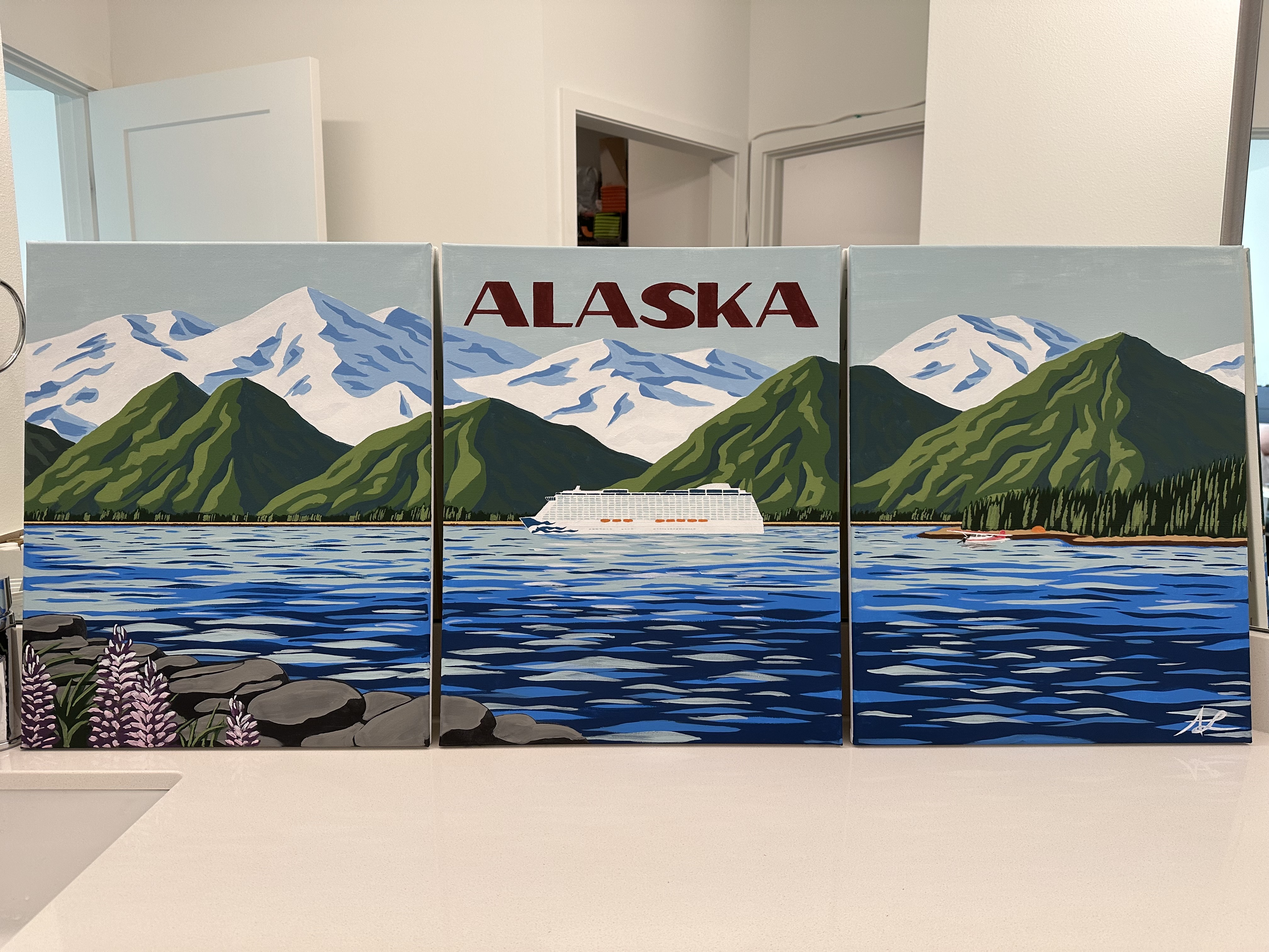
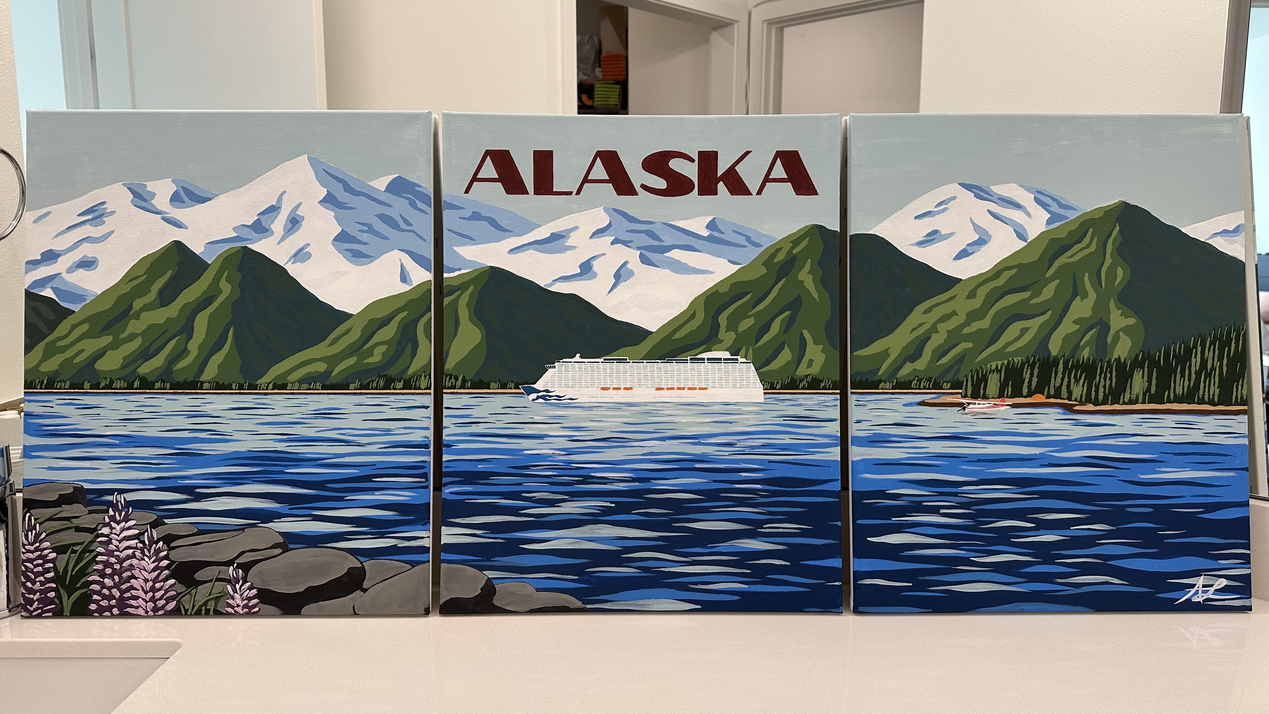
Added pictures and text on custom gifts page.

diff --git a/_projects/custom-gifts.md b/_projects/custom-gifts.md
@@ -1,0 +1,179 @@
+---
+title: "Custom Gifts"
+excerpt: "Handcrafted gifts for special people in my life."
+layout: single
+collection: projects
+permalink: /projects/custom-gifts/
+header:
+  overlay_color: "#000"
+  overlay_filter: "0.5"
+  overlay_image: /assets/images/custom-gifts/hexhike/hex_3.JPEG
+  teaser: /assets/images/custom-gifts/hexhike/hex_3.JPEG
+author_profile: true
+toc: true
+toc_sticky: true
+toc_label: "Jump to section"
+toc_icon: "plane-departure"
+classes: custom-font-size
+
+hexhike_1:
+  - url:        /assets/images/custom-gifts/hexhike/hex_1.JPEG
+    image_path: /assets/images/custom-gifts/hexhike/hex_1.JPEG
+  - url:        /assets/images/custom-gifts/hexhike/hex_2.JPEG
+    image_path: /assets/images/custom-gifts/hexhike/hex_2.JPEG
+
+hexhike_2:
+  - url:        /assets/images/custom-gifts/hexhike/hex_4.JPEG
+    image_path: /assets/images/custom-gifts/hexhike/hex_4.JPEG
+
+hexhike_3:
+  - url:        /assets/images/custom-gifts/hexhike/hex_5.JPEG
+    image_path: /assets/images/custom-gifts/hexhike/hex_5.JPEG
+  - url:        /assets/images/custom-gifts/hexhike/hex_6.JPEG
+    image_path: /assets/images/custom-gifts/hexhike/hex_6.JPEG
+
+hexhike_4:
+  - url:        /assets/images/custom-gifts/hexhike/hex_7.JPEG
+    image_path: /assets/images/custom-gifts/hexhike/hex_7.JPEG
+
+majestic_1:
+  - url:        /assets/images/custom-gifts/majestic/majestic_1.JPEG
+    image_path: /assets/images/custom-gifts/majestic/majestic_1.JPEG
+  - url:        /assets/images/custom-gifts/majestic/majestic_2.JPEG
+    image_path: /assets/images/custom-gifts/majestic/majestic_2.JPEG
+  - url:        /assets/images/custom-gifts/majestic/majestic_3.JPEG
+    image_path: /assets/images/custom-gifts/majestic/majestic_3.JPEG
+
+majestic_2:
+  - url:        /assets/images/custom-gifts/majestic/majestic_4.JPEG
+    image_path: /assets/images/custom-gifts/majestic/majestic_4.JPEG
+
+parislamp_1:
+  - url:        /assets/images/custom-gifts/parislamp/paris_2.JPEG
+    image_path: /assets/images/custom-gifts/parislamp/paris_2.JPEG
+  - url:        /assets/images/custom-gifts/parislamp/paris_1.JPEG
+    image_path: /assets/images/custom-gifts/parislamp/paris_1.JPEG
+  - url:        /assets/images/custom-gifts/parislamp/paris_3.JPEG
+    image_path: /assets/images/custom-gifts/parislamp/paris_3.JPEG
+  - url:        /assets/images/custom-gifts/parislamp/paris_4.JPEG
+    image_path: /assets/images/custom-gifts/parislamp/paris_4.JPEG
+  - url:        /assets/images/custom-gifts/parislamp/paris_5.JPEG
+    image_path: /assets/images/custom-gifts/parislamp/paris_5.JPEG
+  - url:        /assets/images/custom-gifts/parislamp/paris_6.JPEG
+    image_path: /assets/images/custom-gifts/parislamp/paris_6.JPEG
+
+parislamp_2:
+  - url:        /assets/images/custom-gifts/parislamp/paris_7.JPEG
+    image_path: /assets/images/custom-gifts/parislamp/paris_7.JPEG
+
+sebslamp_1:
+  - url:        /assets/images/custom-gifts/sebslamp/seb_1.JPEG
+    image_path: /assets/images/custom-gifts/sebslamp/seb_1.JPEG
+  - url:        /assets/images/custom-gifts/sebslamp/seb_2.JPEG
+    image_path: /assets/images/custom-gifts/sebslamp/seb_2.JPEG
+  - url:        /assets/images/custom-gifts/sebslamp/seb_3.JPEG
+    image_path: /assets/images/custom-gifts/sebslamp/seb_3.JPEG
+  - url:        /assets/images/custom-gifts/sebslamp/seb_4.JPEG
+    image_path: /assets/images/custom-gifts/sebslamp/seb_4.JPEG
+
+sebslamp_2:
+  - url:        /assets/images/custom-gifts/sebslamp/seb_5.JPEG
+    image_path: /assets/images/custom-gifts/sebslamp/seb_5.JPEG
+  - url:        /assets/images/custom-gifts/sebslamp/seb_6.JPEG
+    image_path: /assets/images/custom-gifts/sebslamp/seb_6.JPEG
+
+tinycamera_1:
+  - url:        /assets/images/custom-gifts/tinycamera/cam_1.JPEG
+    image_path: /assets/images/custom-gifts/tinycamera/cam_1.JPEG
+  - url:        /assets/images/custom-gifts/tinycamera/cam_2.JPEG
+    image_path: /assets/images/custom-gifts/tinycamera/cam_2.JPEG
+  - url:        /assets/images/custom-gifts/tinycamera/cam_3.JPEG
+    image_path: /assets/images/custom-gifts/tinycamera/cam_3.JPEG
+  - url:        /assets/images/custom-gifts/tinycamera/cam_10.JPEG
+    image_path: /assets/images/custom-gifts/tinycamera/cam_10.JPEG
+
+tinycamera_2:
+  - url:        /assets/images/custom-gifts/tinycamera/cam_7.JPEG
+    image_path: /assets/images/custom-gifts/tinycamera/cam_7.JPEG
+  - url:        /assets/images/custom-gifts/tinycamera/cam_9.JPEG
+    image_path: /assets/images/custom-gifts/tinycamera/cam_9.JPEG
+
+tinycamera_3:
+  - url:        /assets/images/custom-gifts/tinycamera/cam_8.JPEG
+    image_path: /assets/images/custom-gifts/tinycamera/cam_8.JPEG
+
+groot_1:
+  - url:        /assets/images/custom-gifts/groot/groot_1.JPEG
+    image_path: /assets/images/custom-gifts/groot/groot_1.JPEG
+  - url:        /assets/images/custom-gifts/groot/groot_2.JPEG
+    image_path: /assets/images/custom-gifts/groot/groot_2.JPEG
+  - url:        /assets/images/custom-gifts/groot/groot_3.JPEG
+    image_path: /assets/images/custom-gifts/groot/groot_3.JPEG
+  - url:        /assets/images/custom-gifts/groot/groot_4.JPEG
+    image_path: /assets/images/custom-gifts/groot/groot_4.JPEG
+
+apcalcab_1:
+  - url:        /assets/images/custom-gifts/apcalcab/ap_1.JPEG
+    image_path: /assets/images/custom-gifts/apcalcab/ap_1.JPEG
+  - url:        /assets/images/custom-gifts/apcalcab/ap_2.JPEG
+    image_path: /assets/images/custom-gifts/apcalcab/ap_2.JPEG
+
+apcalcab_2:
+  - url:        /assets/images/custom-gifts/apcalcab/ap_3.JPEG
+    image_path: /assets/images/custom-gifts/apcalcab/ap_3.JPEG
+
+alaska_1:
+  - url:        /assets/images/custom-gifts/alaska/alaska_1.JPEG
+    image_path: /assets/images/custom-gifts/alaska/alaska_1.JPEG
+  - url:        /assets/images/custom-gifts/alaska/alaska_2.JPEG
+    image_path: /assets/images/custom-gifts/alaska/alaska_2.JPEG
+  - url:        /assets/images/custom-gifts/alaska/alaska_3.JPEG
+    image_path: /assets/images/custom-gifts/alaska/alaska_3.JPEG
+
+alaska_2:
+  - url:        /assets/images/custom-gifts/alaska/alaska_4.JPEG
+    image_path: /assets/images/custom-gifts/alaska/alaska_4.JPEG
+
+---
+
+## 3D Topographic Maps
+Topo maps of memorable hikes, made from laser-cut plywood & acrylic.
+{% include gallery id="hexhike_1" %}
+{% include gallery id="hexhike_2" %}
+{% include gallery id="hexhike_3" %}
+{% include gallery id="hexhike_4" %}
+
+## Majestic Theatre Lamp
+A celebration of my sister's favorite musical - The Phantom of the Opera. 3D printed letters with ~80 individual LEDs.
+{% include gallery id="majestic_1" %}
+{% include gallery id="majestic_2" %}
+
+## Eiffel Tower Shadow Lightbox
+Turned a picture of us into a lamp. Laser-cut cardstock layered in a modified picture frame.
+{% include gallery id="parislamp_1" %}
+{% include gallery id="parislamp_2" %}
+
+## La La Land Acrylic Lamp
+Inspired by the neon sign from Seb's jazz club in La La Land. 
+{% include gallery id="sebslamp_1" layout="half" %}
+{% include gallery id="sebslamp_2" %}
+
+## Tiny Nikon Camera
+A miniature 3D printed version of my friend's Nikon D7200, complete with a removable lens and working flash.
+{% include gallery id="tinycamera_1" layout="half" %}
+{% include gallery id="tinycamera_2" %}
+{% include gallery id="tinycamera_3" %}
+
+## I Am Groot
+For my sister in her Marvel era. Plus, I was really excited to use my first 3D printer (Anet A8, built from a kit in 2017).
+{% include gallery id="groot_1" layout="half" %}
+
+## AP Calc AB Lamp
+Made four identical units for my high school friends as an inside joke.
+{% include gallery id="apcalcab_1" %}
+{% include gallery id="apcalcab_2" %}
+
+## Alaska Painting
+Remembering an Alaskan cruise, inspired by the style of vintage national park posters.
+{% include gallery id="alaska_1" %}
+{% include gallery id="alaska_2" %}

diff --git a/_projects/rc-projects.md b/_projects/rc-projects.md
@@ -140,10 +140,6 @@ micro777:
   - url:        /assets/images/rc-projects/micro777/777_1.JPEG
     image_path: /assets/images/rc-projects/micro777/777_1.JPEG
 
-
-
-
-
 ---
 
 ## 3D EPP Foamy
